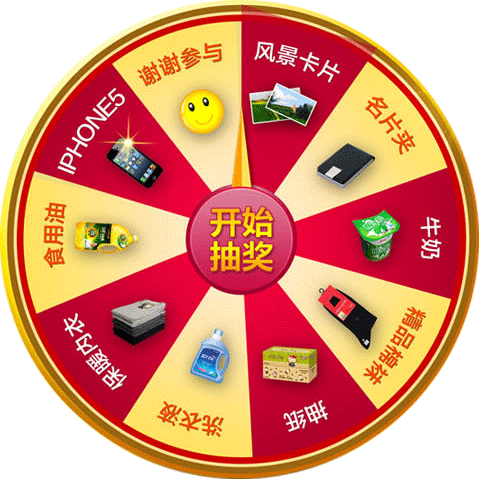
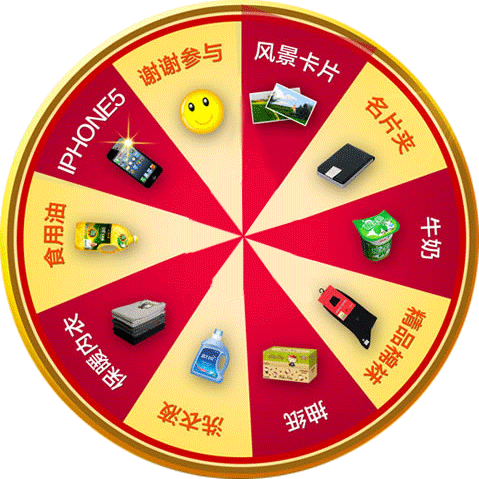
增加点击事件

diff --git a/src/play/index.js b/src/play/index.js
@@ -17,7 +17,7 @@ define(function (require) {
                           "精品棉袜", "抽纸", "洗衣液", "保暖内衣",
                           "食用油", "IPONE5"];
             var perAng = 2 * Math.PI / awards.length;
-
+            var origin = 0;
             zr.addShape(new ImageShape({
                 style: {
                     x: 0,
@@ -38,31 +38,42 @@ define(function (require) {
                 },
                 rotation: [0, (33 + 479/2) * scale, (200 + 479/2) * scale]
             });
-
             zr.addShape(turn);
+            zr.addShape(new ImageShape({
+                style: {
+                    x: 216 * scale,
+                    y: 307 * scale,
+                    image: './img/arrow.png',
+                    width: 112 * scale,
+                    height: 188 * scale
+                },
+                clickable: true,
+                onclick: function () {
+                    var Dreg = Math.PI * 8 + Math.random() * Math.PI * 3;
+                    origin += Dreg;
+
+                    zr
+                        .animate(turn.id)
+                        .when(5000, {
+                            rotation : [
+                                origin,
+                                turn.rotation[1],
+                                turn.rotation[2]]
+                        })
+                        .done(function () {
+                            var result = Math.floor((origin % (2 * Math.PI)) / perAng);
+                            result = (result + 1) % awards.length;;
+                            if (0 === result) {
+                                alert('谢谢参与');
+                            }
+                            else {
+                                alert('恭喜你得到了' + awards[result] + '！');
+                            }
+                        })
+                        .start('QuarticOut');
+                }
+            }));
             zr.render();
-
-            var Dreg = Math.PI * 12 + Math.random() * Math.PI * 4;
-
-            zr
-                .animate(turn.id)
-                .when(7000, {
-                    rotation : [
-                        Dreg,
-                        turn.rotation[1],
-                        turn.rotation[2]]
-                })
-                .done(function () {
-                    var result = Math.floor((Dreg % (2 * Math.PI)) / perAng);
-                    result = (result + 1) % awards.length;;
-                    if ('' === result) {
-                        alert('谢谢参与');
-                    }
-                    else {
-                        alert('恭喜你得到了' + awards[result] + '！');
-                    }
-                })
-                .start('QuarticOut');
         }
     };
 });
